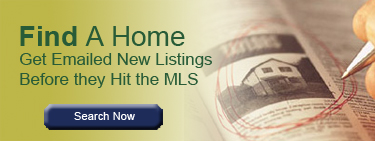
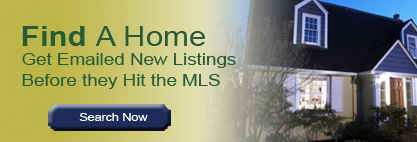
updated images

diff --git a/public/stylesheets/application.css b/public/stylesheets/application.css
@@ -28,7 +28,7 @@ a {
 .title {
   font-size: 14px;
   font-weight: bold;
-  color: orange; }
+  color: gold; }
 
 .instructions {
   font-size: 10px;
@@ -40,7 +40,7 @@ a {
 
 .tooltip {
   font-weight: bold;
-  color: #ffffff;
+  color: d9c7b1;
   background-color: #1e2c5a;
   margin-left: 10px;
   margin-top: 4px;
@@ -187,7 +187,7 @@ th {
 
 
 #agent {
-  background-image: url(/images/header.png);
+  background-image: url(/images/header.jpg);
   background-position: -3% 0%;
   background-repeat: no-repeat;
   text-align: right;
@@ -226,9 +226,6 @@ th {
   text-decoration: none;
   color: #FFFFFF; }
 
-#nav a:hover {
-  color: #ffffff; }
-
 #nav li.top {
   border-right: 1px solid white;
   float: left;
@@ -265,7 +262,7 @@ th {
   z-index: 100; }
 
 #main {
-  background-color: #ffffff;
+  background-color: d9c7b1;
   padding: 30px; }
 
 #footer {
@@ -278,8 +275,6 @@ th {
     color: #ffffff;
     font-weight: normal; }
 
-#company {
-  color: #ffffff; }
 
 #flash_notice,
 #flash_error {

diff --git a/public/stylesheets/sass/application.sass b/public/stylesheets/sass/application.sass
@@ -35,7 +35,7 @@ label
   :font
     :size 14px
     :weight bold
-  :color orange
+  :color gold
     
 .instructions
   :font
@@ -200,11 +200,11 @@ th
 #header
 
 #agent
-  :background-image url(/images/header.png)
+  :background-image url(/images/header.jpg)
   :background-position -3% 0%
   :background-repeat no-repeat
   :text-align right
-  :color = !secondary_color
+  :color = !white
   :width 100%
   :height 125px
   :padding-top 20px
@@ -239,9 +239,6 @@ th
     :weight normal
   :text-decoration none
   :color #FFFFFF
-  
-#nav a:hover
-  :color = !secondary_color
 
 #nav li.top
   :border-right 1px solid white
@@ -289,12 +286,11 @@ th
   :background-color = !primary_color
   :clear both
   a
-    :color = !secondary_color
+    :color = !white
     :font
       :weight normal
 
 #company
-  :color = !secondary_color
   
 #flash_notice,
 #flash_error

diff --git a/public/stylesheets/sass/defaults.sass b/public/stylesheets/sass/defaults.sass
@@ -1,2 +1,3 @@
 !primary_color = #1e2c5a
-!secondary_color = white
+!secondary_color = d9c7b1
+!white = white

diff --git a/app/models/article.rb b/app/models/article.rb
@@ -1,5 +1,5 @@
 class Article < ActiveRecord::Base
   validates_presence_of :title
   has_attached_file :background_image, 
-                    :styles => { :small => "518x100>", :original => "777x150>" }
+                    :styles => { :small => "518x100>", :original => "840x150>" }
 end
